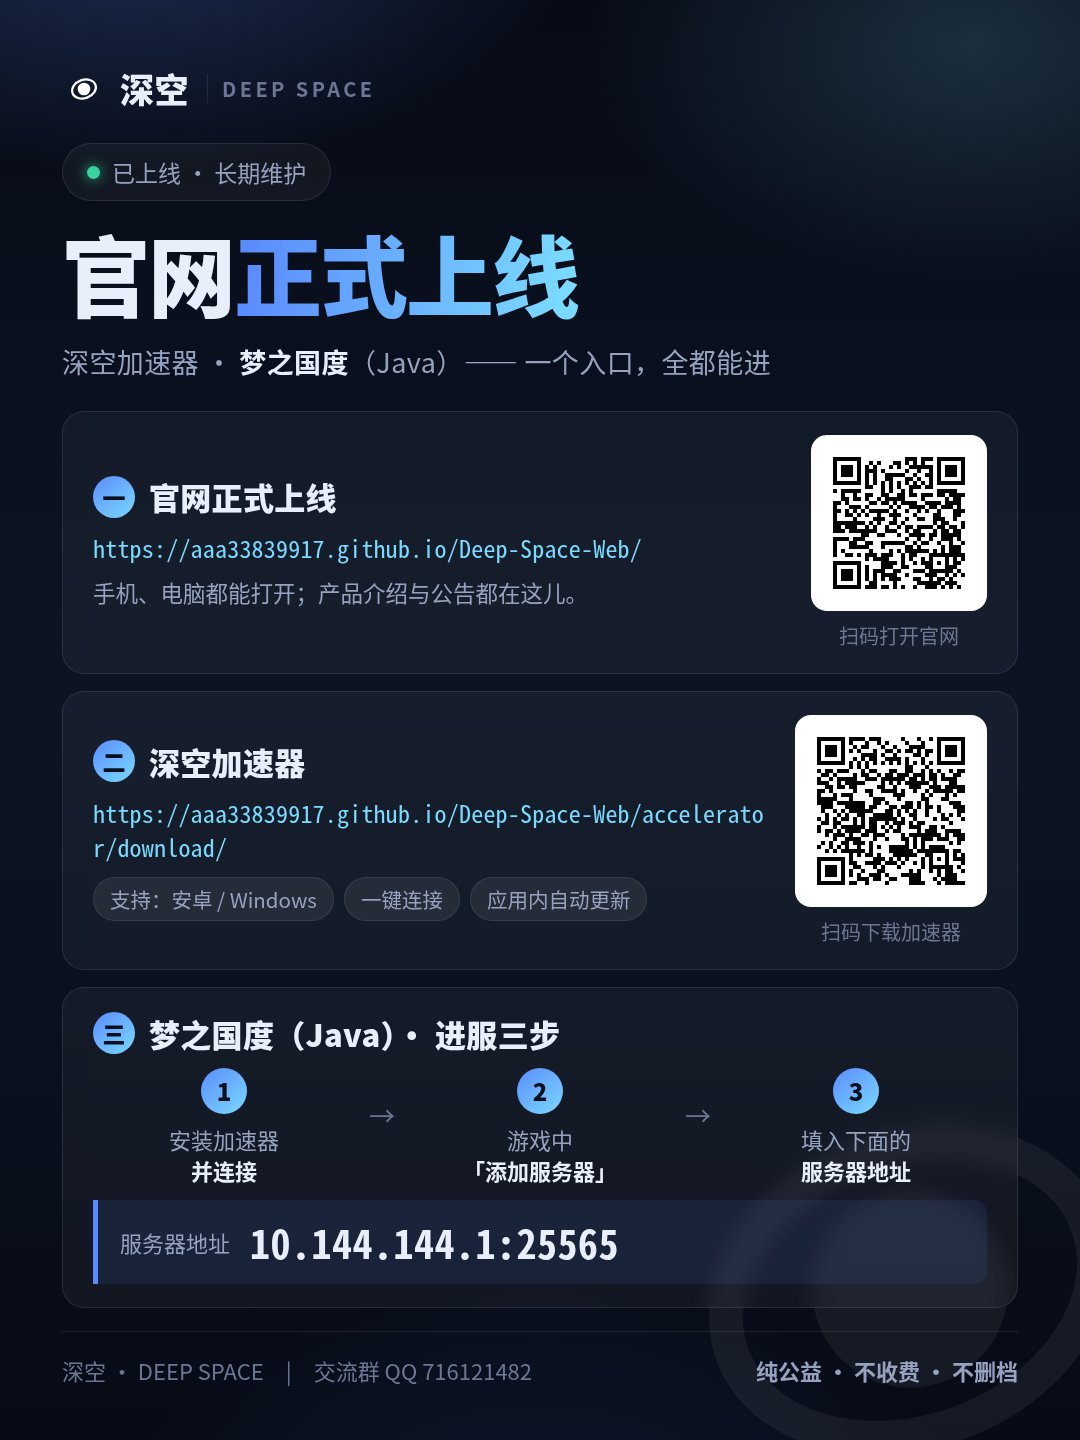
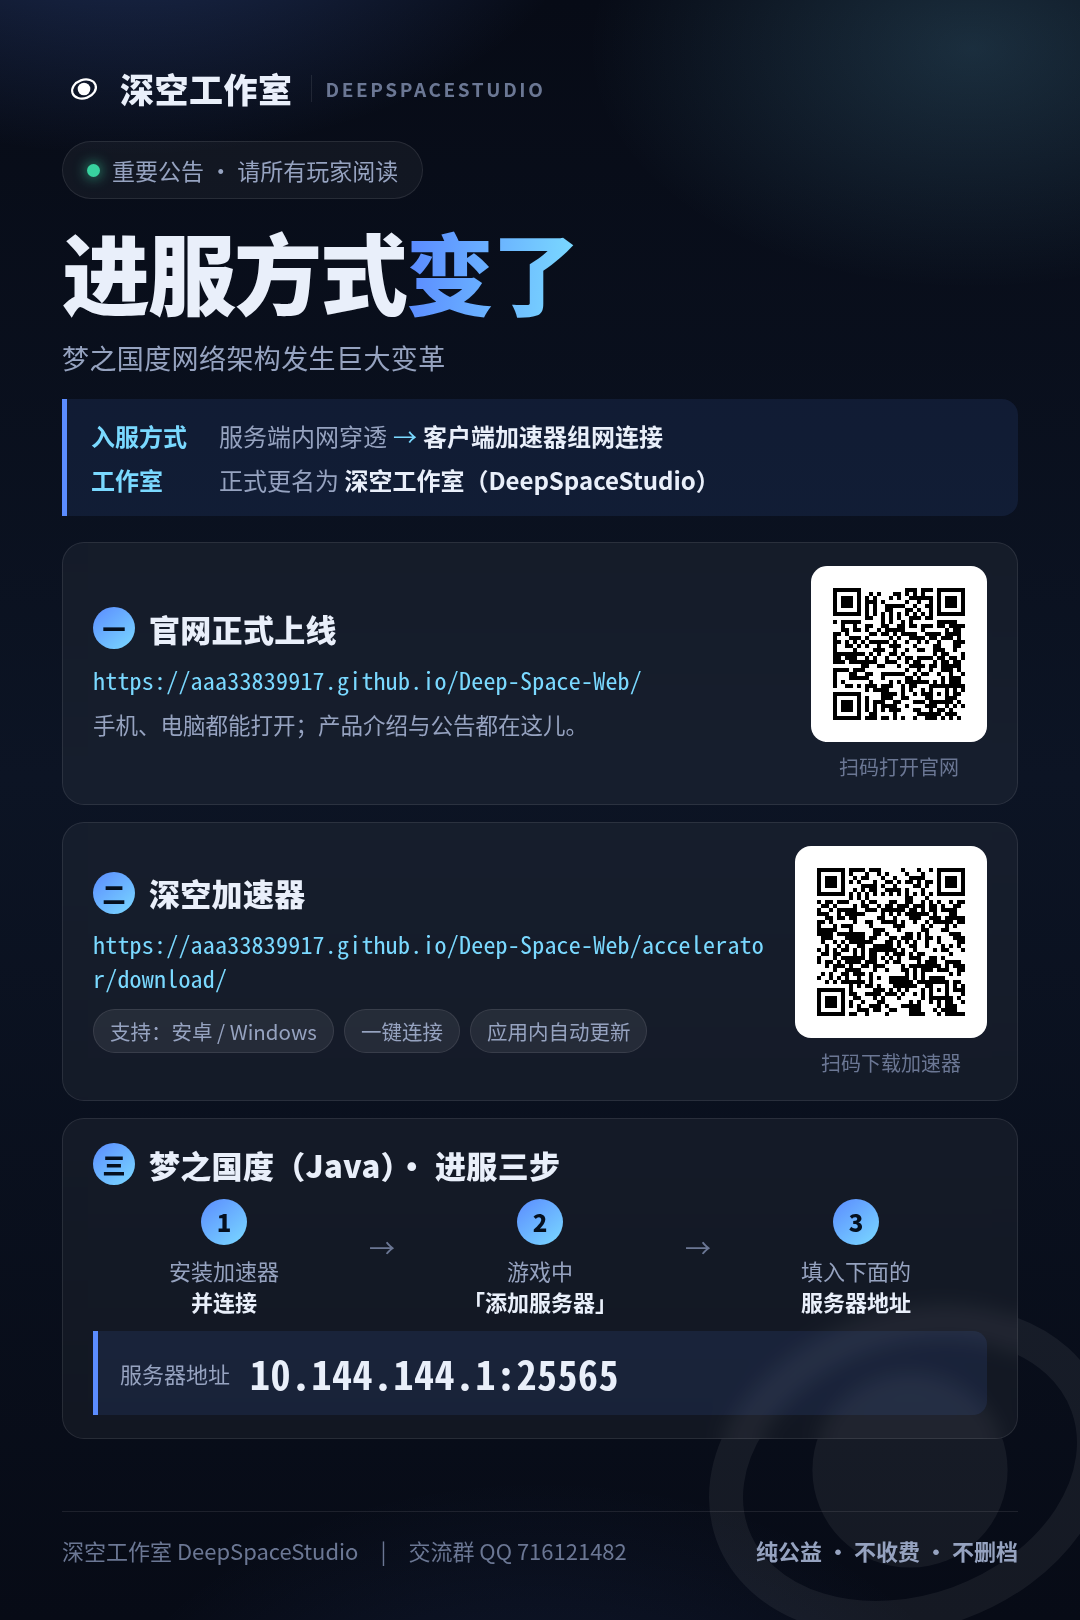
海报：按服主完整文案重做（补上"架构变革 + 更名"，画布 1080x1620）
服主 00:16 补发了群公告四条全文，比 00:04 那版多出最关键的第 1 条
（梦之国度网络架构变革 + 工作室更名为 深空工作室/DeepSpaceStudio），
所以海报从 1080x1440 改成 1080x1620：

- 抬头改为「进服方式变了」+ 变更提示条（内网穿透 → 加速器组网；正式更名）
- 品牌行改用新名字：深空工作室 / DEEPSPACESTUDIO
- 正文编号沿用上一版草稿：一、官网 二、加速器 三、梦之国度
  （服主原文编号是 1/3/4/5，因为第 1 条已提到抬头，正文顺延成 一/二/三）

verify-poster.py 同步更新：画布尺寸、两个二维码的裁切坐标、以及
6 条关键文案的逐条比对（"梦之国度网络架构发生巨大变革/服务端内网穿透/
客户端加速器组网连接/深空工作室（DeepSpaceStudio）/支持：安卓 / Windows/
梦之国度（Java）"）。实测：2/2 二维码可扫且指向正确链接，负向对照通过。

diff --git a/_build/poster/group-announce.html b/_build/poster/group-announce.html
@@ -2,15 +2,18 @@
 <html lang="zh-CN">
 <head>
 <meta charset="utf-8">
-<title>深空 · 群公告海报</title>
+<title>深空工作室 · 群公告海报</title>
 <style>
 /* ============================================================================
-   深空 · 群公告海报（1080 x 1440）
-   观感刻意照搬 **FreeCloud 官网** 那一套：深色 + 玻璃拟态 + 蓝紫光斑；
-   主色 #5B8CFF / #7AD9FF 直接取自 FreeCloud/site/assets/site.css 的 :root。
+   深空工作室 · 群公告海报（1080 x 1620）
+   观感照搬 **FreeCloud 官网** 那一套：深色 + 玻璃拟态 + 蓝紫光斑；
+   主色 #5B8CFF / #7AD9FF 取自 FreeCloud/site/assets/site.css 的 :root。
    ---------------------------------------------------------------------------
    ⚠ 这是 FreeCloud 的配色，**不是**深空官网的配色规范（深空官网禁渐变）。
-      服主点名要的是 FreeCloud 这一版观感，所以这里按 FreeCloud 走。
+      服主点名要 FreeCloud 这一版观感，所以这里按 FreeCloud 走。
+
+   文案唯一真源 = 服主 2026-10-03 00:16 发的那四条；
+   海报里出现的每条链接/地址/名称都由 verify-poster.py 对着权威清单复查。
    ========================================================================== */
 :root{
   --bg:#070B16; --bg-2:#0C1424;
@@ -19,7 +22,7 @@
   --accent:#5B8CFF; --accent-2:#7AD9FF; --ok:#38D39F;
 }
 *{box-sizing:border-box;margin:0;padding:0}
-html,body{width:1080px;height:1440px;overflow:hidden}
+html,body{width:1080px;height:1620px;overflow:hidden}
 body{
   background:var(--bg); color:var(--ink);
   font-family:"Noto Sans CJK SC","Source Han Sans SC","PingFang SC","Microsoft YaHei",sans-serif;
@@ -27,7 +30,7 @@ body{
 }
 
 /* 背景层：光斑 + 品牌水印，一起关进固定画布，绝不撑大文档 */
-.canvas{position:fixed; inset:0; width:1080px; height:1440px; overflow:hidden; z-index:0}
+.canvas{position:fixed; inset:0; width:1080px; height:1620px; overflow:hidden; z-index:0}
 .canvas .bg{
   position:absolute; inset:0;
   background:
@@ -43,7 +46,7 @@ body{
 
 .stage{
   position:relative; z-index:1;
-  height:1440px; padding:64px 62px 54px;
+  height:1620px; padding:64px 62px 54px;
   display:flex; flex-direction:column;
 }
 
@@ -52,12 +55,12 @@ body{
 .brand img{width:44px; height:44px; display:block}
 .brand b{font-size:34px; font-weight:900; letter-spacing:.5px}
 .brand span{
-  font-size:20px; color:var(--ink-dim2); letter-spacing:3.4px; font-weight:600;
+  font-size:19px; color:var(--ink-dim2); letter-spacing:2.6px; font-weight:600;
   padding-left:14px; margin-left:4px; border-left:1px solid var(--line);
 }
 .badge{
   align-self:flex-start; display:inline-flex; align-items:center; gap:12px;
-  margin-top:30px; padding:11px 24px; border-radius:999px;
+  margin-top:28px; padding:11px 24px; border-radius:999px;
   background:var(--card); border:1px solid var(--line);
   font-size:23px; color:var(--ink-dim);
 }
@@ -69,11 +72,22 @@ h1 em{
   background:linear-gradient(96deg,var(--accent) 6%,var(--accent-2) 94%);
   -webkit-background-clip:text; background-clip:text; color:transparent;
 }
-.sub{margin-top:20px; font-size:27px; color:var(--ink-dim); letter-spacing:.4px}
+.sub{margin-top:18px; font-size:27px; color:var(--ink-dim); letter-spacing:.4px}
 .sub b{color:var(--ink); font-weight:700}
 
+/* ---------- 变更提示条（FreeCloud 的 .note 观感） ---------- */
+.notice{
+  margin-top:22px; border-left:5px solid var(--accent); border-radius:0 16px 16px 0;
+  background:rgba(91,140,255,.10); padding:18px 24px;
+}
+.notice p{display:flex; gap:16px; font-size:24px; line-height:1.55; color:var(--ink-dim)}
+.notice p + p{margin-top:7px}
+.notice b{color:var(--ink); font-weight:700}
+.notice i{font-style:normal; flex:none; color:var(--accent-2); font-weight:700; min-width:112px}
+.arrowh{color:var(--accent-2); padding:0 6px}
+
 /* ---------- 卡片 ---------- */
-.cards{margin-top:30px; display:flex; flex-direction:column; gap:17px}
+.cards{margin-top:26px; display:flex; flex-direction:column; gap:17px}
 .card{
   display:flex; align-items:center; gap:30px;
   background:var(--card); border:1px solid var(--line); border-radius:22px;
@@ -160,14 +174,19 @@ h1 em{
   <div class="brand">
     <!-- 品牌图引用唯一真源（不复制副本，见 项目规则.md R2.4） -->
     <img src="../../assets/mark-white.svg" alt="">
-    <b>深空</b>
-    <span>DEEP SPACE</span>
+    <b>深空工作室</b>
+    <span>DEEPSPACESTUDIO</span>
   </div>
 
-  <div class="badge"><span class="dot"></span>已上线 · 长期维护</div>
+  <div class="badge"><span class="dot"></span>重要公告 · 请所有玩家阅读</div>
 
-  <h1>官网<em>正式上线</em></h1>
-  <div class="sub">深空加速器 · <b>梦之国度</b>（Java）—— 一个入口，全都能进</div>
+  <h1>进服方式<em>变了</em></h1>
+  <div class="sub">梦之国度网络架构发生巨大变革</div>
+
+  <div class="notice">
+    <p><i>入服方式</i><span>服务端内网穿透<span class="arrowh">→</span><b>客户端加速器组网连接</b></span></p>
+    <p><i>工作室</i><span>正式更名为 <b>深空工作室（DeepSpaceStudio）</b></span></p>
+  </div>
 
   <!-- ===== 三件事 ===== -->
   <div class="cards">
@@ -222,7 +241,7 @@ h1 em{
   <div class="grow"></div>
 
   <div class="foot">
-    <span>深空 · DEEP SPACE　|　交流群 QQ 716121482</span>
+    <span>深空工作室 DeepSpaceStudio　|　交流群 QQ 716121482</span>
     <span><b>纯公益 · 不收费 · 不删档</b></span>
   </div>
 

diff --git a/_build/poster/verify-poster.py b/_build/poster/verify-poster.py
@@ -6,9 +6,11 @@
 用法：
     python3 verify-poster.py [海报.png]
 
-它只做一件事：**从"要发出去的那张 PNG"里，把二维码抠出来真解一遍**。
-因为二维码是这张海报里唯一"错了也看不出来"的东西 ——
-另一个库比对矩阵那种方法是错的判据（见 make-qr.py 的注释）。
+查三件事：
+  ① 画布尺寸是不是 1080x1620（发出去就是这一张图，尺寸不能飘）；
+  ② **从"要发出去的那张 PNG"里把两个二维码抠出来真解一遍** ——
+     二维码是这张海报里唯一"错了也看不出来"的东西；
+  ③ 海报正文里的链接 / 地址 / 关键文案，逐条对着权威清单比。
 
 依赖：
     pip install --target /vol1/.dsh-tmp/pylibs pyzbar
@@ -26,22 +28,30 @@ HERE = os.path.dirname(os.path.abspath(__file__))
 DEFAULT_PNG = os.path.join(HERE, "group-announce-2026-10-03.png")
 HTML = os.path.join(HERE, "group-announce.html")
 
-W, H = 1080, 1440
+W, H = 1080, 1620
 
 # 海报里两个二维码**白底方块**的屏幕坐标（x, y, w, h）
-#   来源：浏览器里量 .qr__box 的 getBoundingClientRect()（1080x1440 视口、无缩放）
-#   ⚠ 改了海报版式就要重新量，量法与期望值会在下面的自检里体现
+#   来源：浏览器里量 .qr__box 的 getBoundingClientRect()（1080x1620 视口、无缩放）
+#   ⚠ 改了海报版式就要重新量（量法：见本目录 README 或 git 提交说明里的那一行 JS）
 QR_BOXES = [
-    ((811, 435, 176, 176), "https://aaa33839917.github.io/Deep-Space-Web/"),
-    ((795, 715, 192, 192), "https://aaa33839917.github.io/Deep-Space-Web/accelerator/download/"),
+    ((811, 566, 176, 176), "https://aaa33839917.github.io/Deep-Space-Web/"),
+    ((795, 846, 192, 192), "https://aaa33839917.github.io/Deep-Space-Web/accelerator/download/"),
 ]
 
+# ★ 权威清单 = 服主 2026-10-03 00:16 发来的那四条原文
 CANONICAL_URLS = [
     "https://aaa33839917.github.io/Deep-Space-Web/",
     "https://aaa33839917.github.io/Deep-Space-Web/accelerator/download/",
 ]
-
 ADDRESS = "10.144.144.1:25565"
+MUST_APPEAR = [
+    "梦之国度网络架构发生巨大变革",
+    "服务端内网穿透",
+    "客户端加速器组网连接",
+    "深空工作室（DeepSpaceStudio）",
+    "支持：安卓 / Windows",
+    "梦之国度（Java）",
+]
 
 
 def main():
@@ -71,8 +81,7 @@ def main():
     # ---------- ③ 负向对照：把码涂花，确认这道闸门真的会拦 ----------
     x, y, w, h = QR_BOXES[0][0]
     broken = im.crop((x, y, x + w, y + h)).convert("RGB")
-    d = ImageDraw.Draw(broken)
-    d.rectangle([w // 4, h // 4, w * 3 // 4, h * 3 // 4], fill=(255, 255, 255))
+    ImageDraw.Draw(broken).rectangle([w // 4, h // 4, w * 3 // 4, h * 3 // 4], fill=(255, 255, 255))
     got_broken = [r.data.decode("utf-8") for r in decode(broken)]
     if any(g == QR_BOXES[0][1] for g in got_broken):
         fails.append("负向对照失败：涂花后仍解出原链接")
@@ -80,25 +89,30 @@ def main():
     else:
         print(f"③ 负向对照：✅ 涂花后解出 {got_broken or '（解不出来）'}，与原文不同")
 
-    # ---------- ④ 海报正文里的链接/地址 vs 权威清单 ----------
+    # ---------- ④ 正文里的链接 / 地址 / 文案 ----------
     html = open(HTML, encoding="utf-8").read()
     shown = re.findall(r'<span class="url">(.*?)</span>', html)
-    addr = re.search(r'<span class="addr__v">(.*?)</span>', html)
-    addr = addr.group(1) if addr else ""
-    print(f"④ 正文比对：链接 {len(shown)} 条 / 地址 1 条")
+    addr_m = re.search(r'<span class="addr__v">(.*?)</span>', html)
+    addr = addr_m.group(1) if addr_m else ""
+    # 正文可见文字（去掉标签），用于"关键文案在不在"的比对
+    text = re.sub(r"<[^>]+>", "", html)
+
+    print(f"④ 正文比对：链接 {len(shown)} 条 / 地址 1 条 / 关键文案 {len(MUST_APPEAR)} 条")
     for u in shown:
-        mark = "✅" if u in CANONICAL_URLS else "❌"
-        print(f"   {mark} {u}")
-        if u not in CANONICAL_URLS:
+        good = u in CANONICAL_URLS
+        print(f"   {'✅' if good else '❌'} 链接 {u}")
+        if not good:
             fails.append(f"海报里的链接不在权威清单里: {u}")
     if len(shown) != len(CANONICAL_URLS):
         fails.append(f"链接条数 {len(shown)} ≠ 权威清单 {len(CANONICAL_URLS)}")
+    print(f"   {'✅' if addr == ADDRESS else '❌'} 地址 {addr}")
     if addr != ADDRESS:
         fails.append(f"服务器地址 {addr!r} ≠ {ADDRESS!r}")
-    print(f"   {'✅' if addr == ADDRESS else '❌'} 服务器地址 {addr}")
-
-    # ---------- ⑤ 品牌图与二维码图都已加载进成品 ----------
-    print("⑤ 资源齐全性：品牌图 + 2 个二维码（见浏览器控制台无 404 / 版式无空白）")
+    for key in MUST_APPEAR:
+        good = key in text
+        print(f"   {'✅' if good else '❌'} 文案「{key}」")
+        if not good:
+            fails.append(f"关键文案缺失: {key}")
 
     print()
     if fails:
@@ -106,8 +120,8 @@ def main():
         for f in fails:
             print("   -", f)
         sys.exit(1)
-    print(f"✅ 自检通过：画布 {W}x{H}，二维码 {ok_qr}/{len(QR_BOXES)} 可扫且指向正确链接，"
-          f"正文 {len(shown)} 条链接 + 1 条地址与权威清单一致。")
+    print(f"✅ 自检通过：画布 {W}x{H}；二维码 {ok_qr}/{len(QR_BOXES)} 可扫且指向正确链接；"
+          f"正文 {len(shown)} 条链接 + 1 条地址 + {len(MUST_APPEAR)} 条关键文案全部对上。")
 
 
 if __name__ == "__main__":
